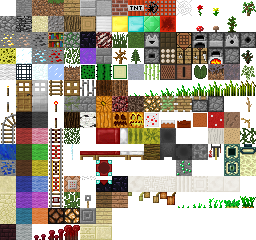
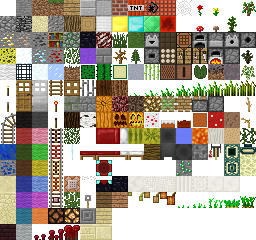
Added water and lava

Changed region(s): [[0.6875, 0.525, 0.8125, 0.6125]]

diff --git a/_blocks.scss b/_blocks.scss
@@ -733,6 +733,18 @@ a[href="/half_slab_plank_3_bottom"] {
   @include pos(96, 216);
 }
 
+a[href="/water"] {
+  @extend .slabs;
+  @extend .blocks;
+  @include pos(176, 128);
+}
+
+a[href="/lava"] {
+  @extend .slabs;
+  @extend .blocks;
+  @include pos(192, 128);
+}
+
 /* NATURE */
 a[href="/lilypad"] {
   @extend .blocks;
